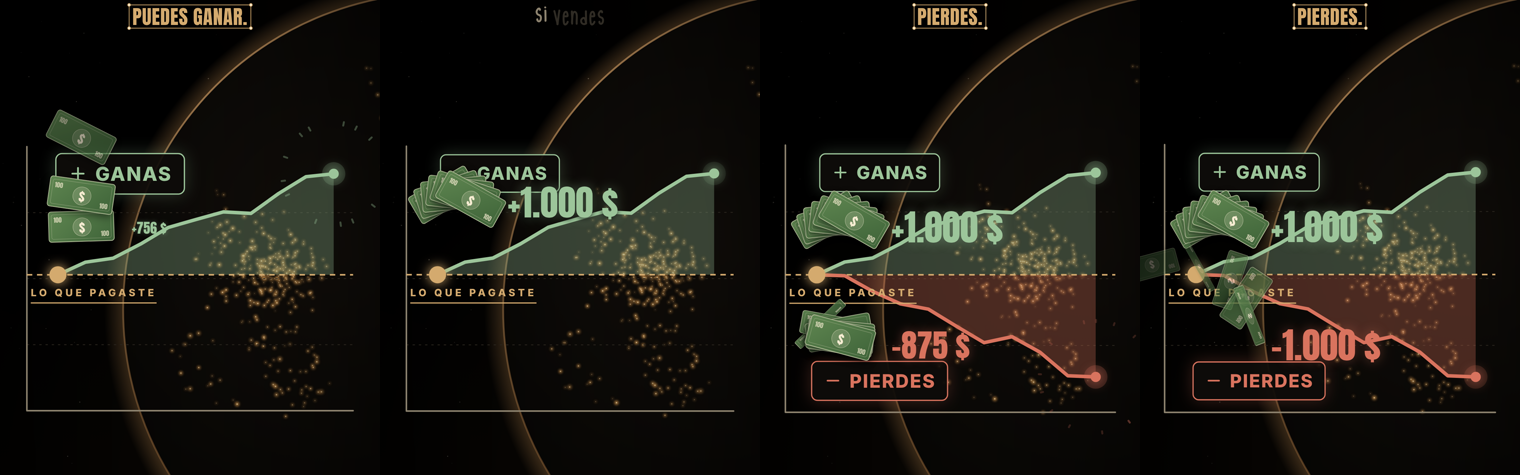
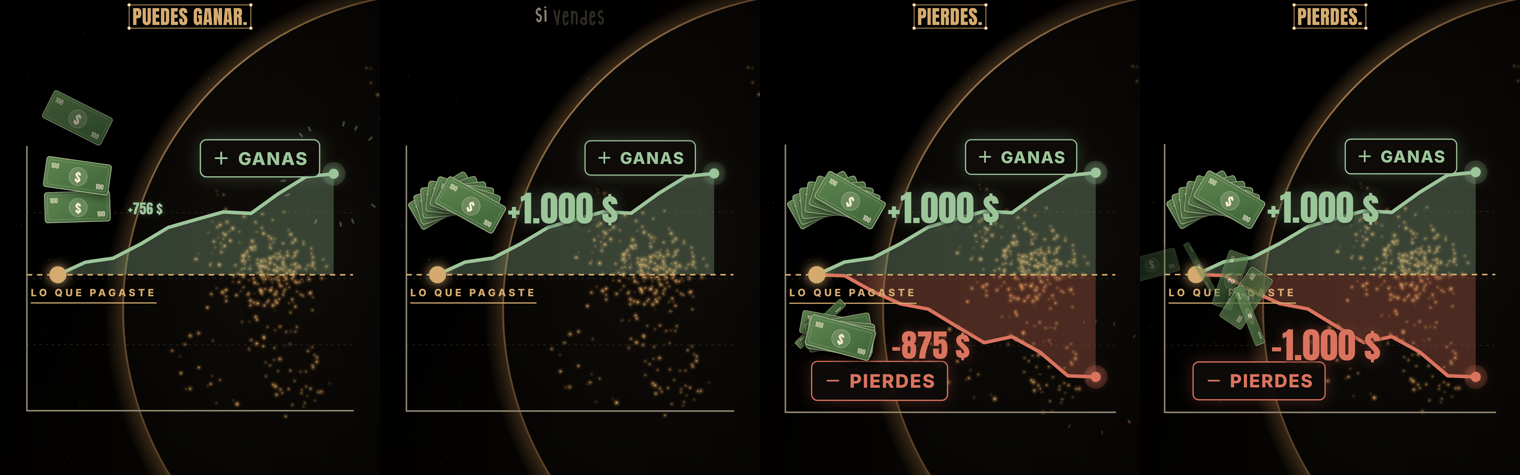
Reel acción: ajuste de posición de billetes (previa)
Claude-Session: https://claude.ai/code/session_01Usms2r7kyNP6cbVRcrKfdD

diff --git a/reels/que-es-una-accion/proyecto/src/propias/Graficas.tsx b/reels/que-es-una-accion/proyecto/src/propias/Graficas.tsx
@@ -392,7 +392,7 @@ const GanarPerder: React.FC<PropsEscena> = ({ b }) => {
       <Etiqueta desde={b2 - 2} x={X0 + 10} y={yC + 30} texto="LO QUE PAGASTE" centro={false} tam={26} />
       {f >= b1 - 4 && <Cabeza x={A.h[0]} y={A.h[1]} color={VERDE} />}
       {f >= b4 - 4 && <Cabeza x={B.h[0]} y={B.h[1]} color={ROJO} />}
-      <Caja x={360} y={400} desde={b3 - 2} color={VERDE} tam={46}>
+      <Caja x={720} y={360} desde={b3 - 2} color={VERDE} tam={42}>
         <Icono nombre="plus" tam={46} color={VERDE} /> GANAS
       </Caja>
       <Caja x={360} y={930} desde={b5 - 2} color={ROJO} tam={46}>
@@ -400,7 +400,7 @@ const GanarPerder: React.FC<PropsEscena> = ({ b }) => {
       </Caja>
       <Chispas desde={b3} x={A.h[0]} y={A.h[1]} color={VERDE} />
       <Chispas desde={b5} x={B.h[0]} y={B.h[1]} color={ROJO} />
-      <Billetes x={250} y={455} desde={b3} modo="gana" />
+      <Billetes x={250} y={470} desde={b3} modo="gana" />
       <Billetes x={260} y={820} desde={b5} modo="pierde" />
     </AbsoluteFill>
   );
